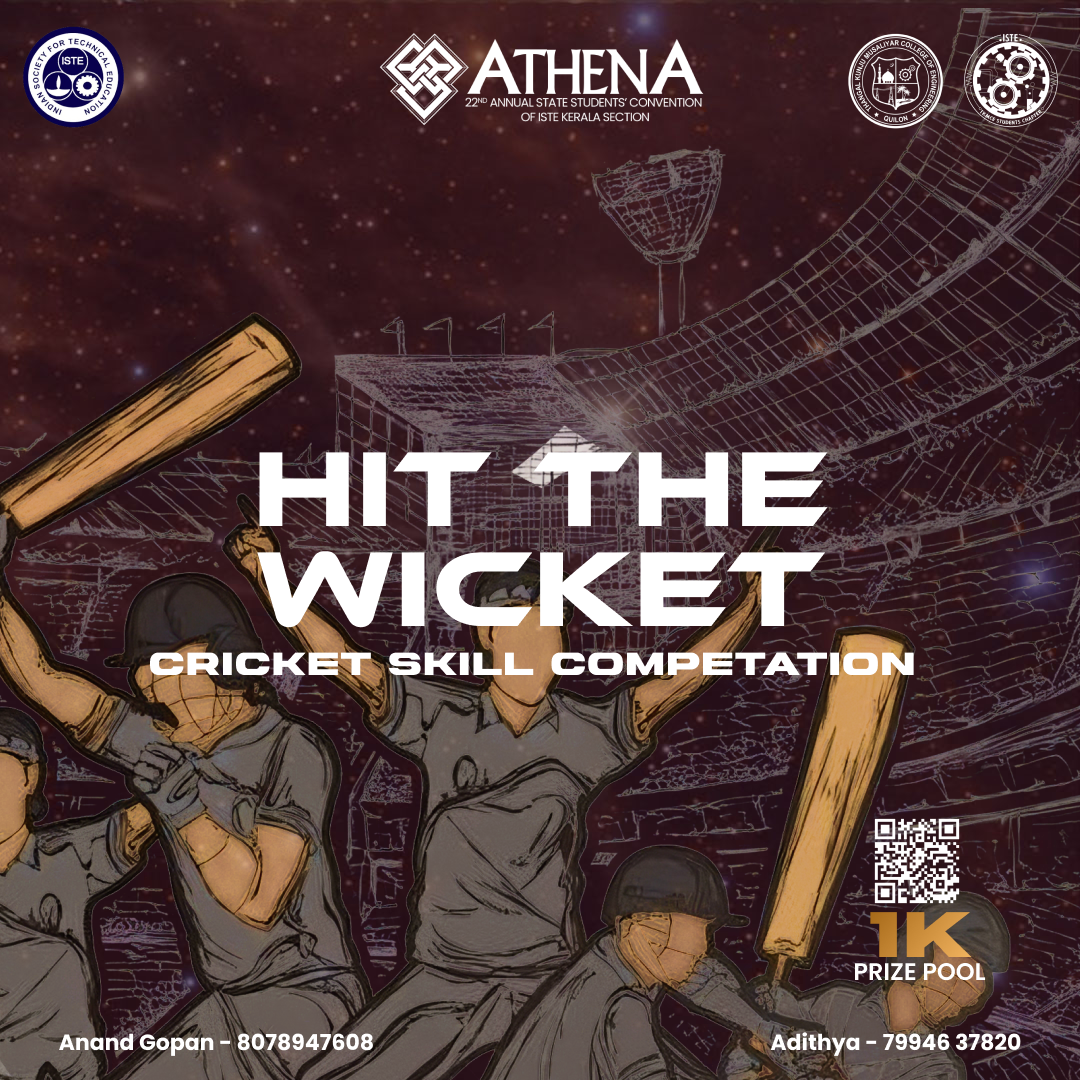
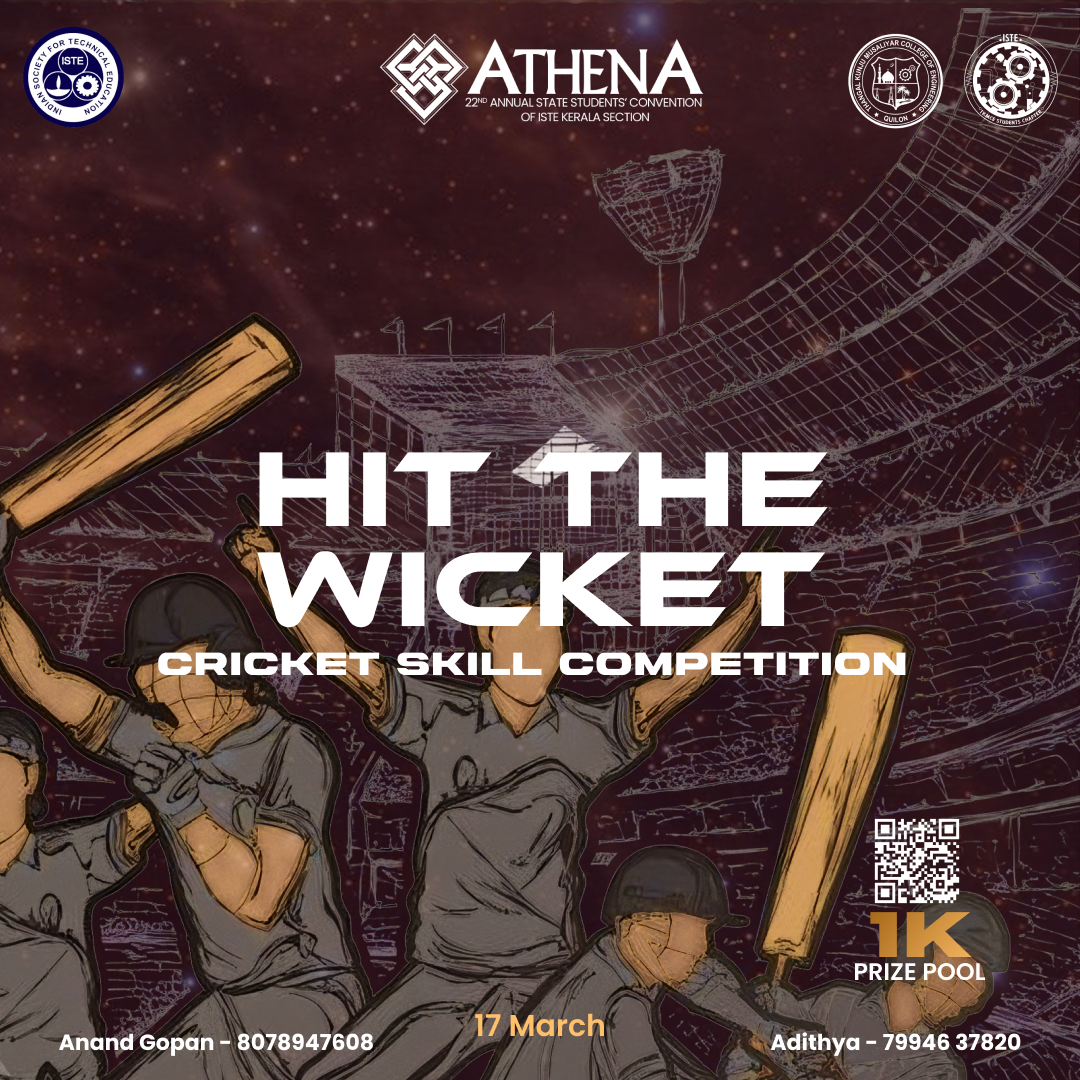
event update

Changed region(s): [[0.1222, 0.5806, 0.8556, 0.6417], [0.4278, 0.9167, 0.55, 0.9778]]

diff --git a/src/content/events.js b/src/content/events.js
@@ -53,7 +53,7 @@ const eventsDetails = [{
   name : "Hit The Wicket ",
   details: "Get ready for the ultimate showdown at Athena, the 22nd Annual ISTE State Student Convention of ISTE Kerala Section. ISTE TKMCE presents Hit the Wicket Challenge, an event that centers around precise overarm bowling and the spirit of fair play. Polish up your wicket-taking skills, it's time to shine!",
   date : "17 March 2024",
-  posters: ["/hit the wicket.png","/hit the wicket guideline.png"],
+  posters: ["/Hit the wicket.png","/Hit the wicket guideline.png"],
   price : "This Event Comes Under Delegate Pass",
   coordinators : [{name: "Anand Gopan G", phone:"8078947608"},{name: "Adithya Ramachandran", phone:"7994637820"}],
   link: "https://www.yepdesk.com/hit-the-wicket/private/sm39974hvr",
